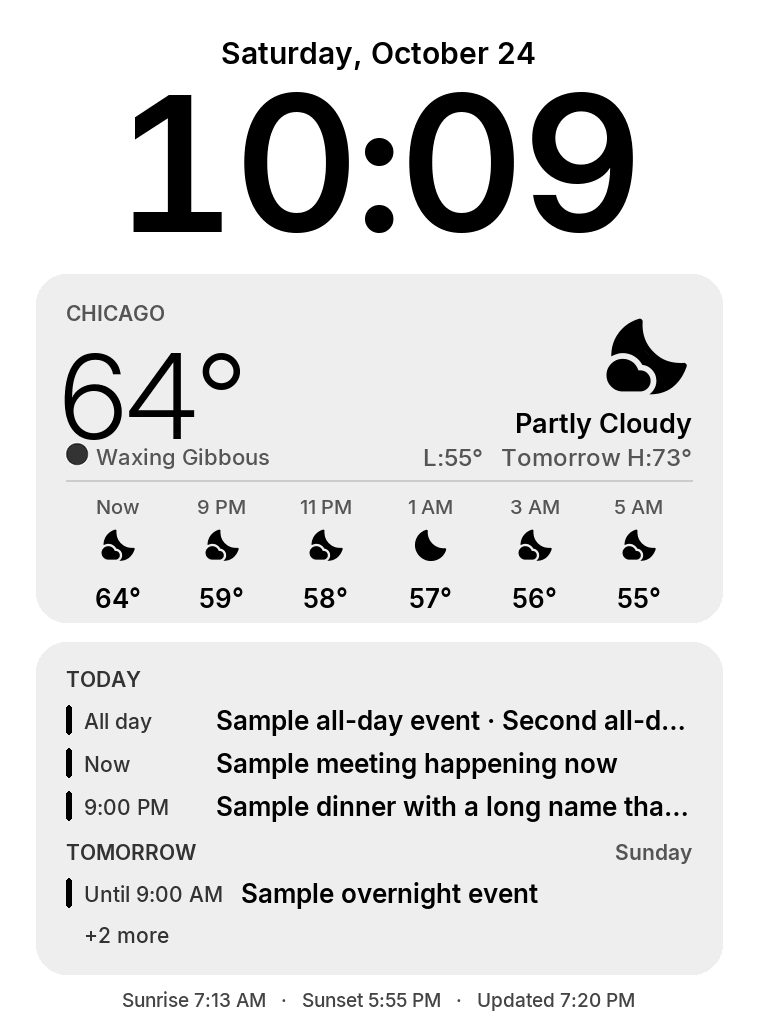
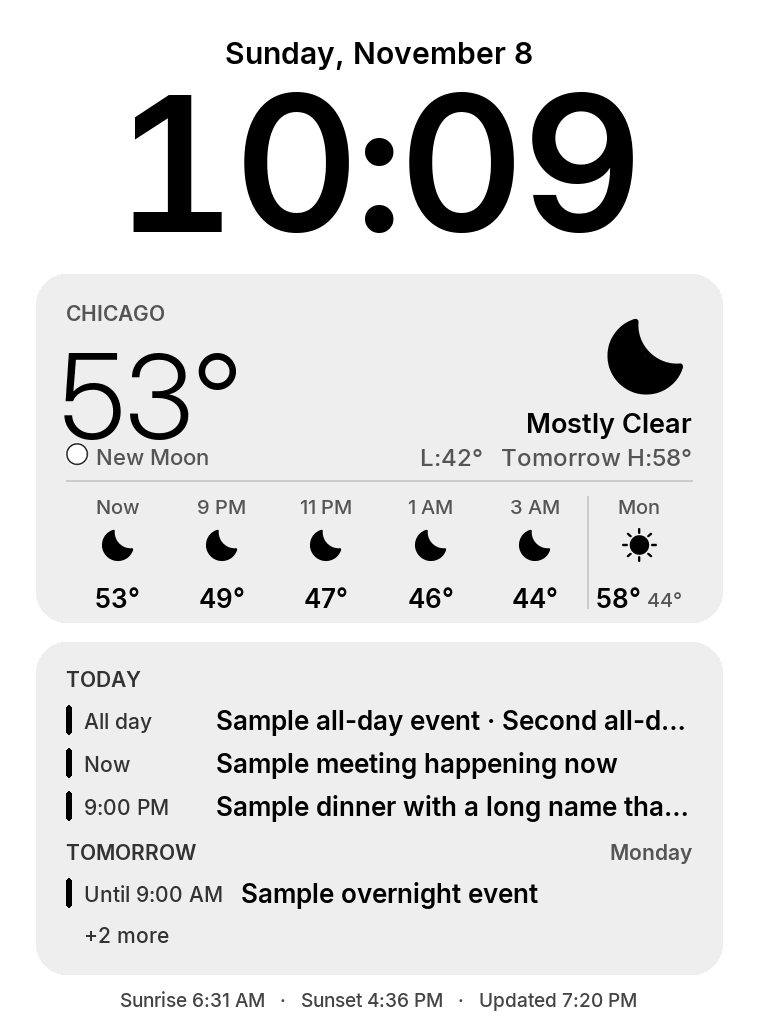
Tomorrow column in the weather strip; Phase 0 hardening
Weather: the last hourly slot now shows tomorrow's daytime forecast
(weekday, icon, rain chance, high/low) from the daily periods.

Workflow: build job back to a read-only token; the deploy job creates
the marker commit through the Git data API (no checkout, official
actions only), deploys under it, cancels a deployment that doesn't
finish, tolerates transient status errors, and then polls the live
meta.bin until its hash matches what was built, so a deploy that
changes nothing fails instead of passing. Hourly run prunes old
deployment records. deploy.js is a committed file. A ruleset keeps
the Actions token off main.

Kindle: power watcher re-arms if lipc-wait-event dies and waits for
the loop before restoring the UI; "stop" file as a second exit; meta
fetched before the image; download size caps; cache written only on
change; log mirrored before rotation; framebuffer stride checked at
startup; preflight failures written to last_error.txt.

Renderer: daily-forecast fields guarded (a malformed period no longer
blanks the card), hourly shortForecast guarded, moon-phase default.
diag.sh: dd probe reports dd's exit code, not tail's.

diff --git a/.github/scripts/deploy.js b/.github/scripts/deploy.js
@@ -1,0 +1,100 @@
+// Deploys the Pages artifact under a fresh marker commit, then checks that Pages is really
+// serving the new render. Run by actions/github-script from render.yml.
+//
+// Why not actions/deploy-pages: it always deploys under GITHUB_SHA, and Pages got stuck on a
+// repeated SHA for 12 hours while every deploy reported success (2026-11-08). The marker commit
+// (main's tree, new message) is created through the Git data API so this job never checks out
+// or runs third-party code with a token that can write to the repo.
+//
+// Env: ARTIFACT_ID, META_SHA256 (sha256 of the meta.bin that was uploaded), DASH_TOKEN.
+
+const crypto = require('crypto')
+
+const TERMINAL_FAILURES = ['deployment_failed', 'deployment_content_failed', 'deployment_attempt_error',
+  'deployment_lost', 'deployment_cancelled']
+const sleep = ms => new Promise(r => setTimeout(r, ms))
+
+module.exports = async ({ github, context, core }) => {
+  const { owner, repo } = context.repo
+  const base = context.sha
+
+  // 1. Marker commit on the deploy-marker branch.
+  const { data: baseCommit } = await github.request('GET /repos/{owner}/{repo}/git/commits/{sha}', { owner, repo, sha: base })
+  const { data: marker } = await github.request('POST /repos/{owner}/{repo}/git/commits', {
+    owner, repo,
+    message: `render ${context.runId}`,
+    tree: baseCommit.tree.sha,
+    parents: [base],
+    author: { name: 'render', email: 'render@users.noreply.github.com', date: new Date().toISOString() },
+  })
+  try {
+    await github.request('PATCH /repos/{owner}/{repo}/git/refs/{ref}', { owner, repo, ref: 'heads/deploy-marker', sha: marker.sha, force: true })
+  } catch (e) {
+    if (e.status !== 422 && e.status !== 404) throw e
+    await github.request('POST /repos/{owner}/{repo}/git/refs', { owner, repo, ref: 'refs/heads/deploy-marker', sha: marker.sha })
+  }
+  core.info(`marker commit ${marker.sha}`)
+
+  // 2. Pages deployment under the marker SHA.
+  const oidc_token = await core.getIDToken()
+  const { data: dep } = await github.request('POST /repos/{owner}/{repo}/pages/deployments', {
+    owner, repo,
+    artifact_id: Number(process.env.ARTIFACT_ID),
+    pages_build_version: marker.sha,
+    oidc_token,
+  })
+  core.info(`deployment ${dep.id} created`)
+
+  // 3. Wait for it, tolerating transient API errors; cancel it if we give up.
+  let status = 'unknown'
+  let errors = 0
+  const deadline = Date.now() + 5 * 60 * 1000
+  try {
+    while (Date.now() < deadline) {
+      await sleep(5000)
+      try {
+        const { data: s } = await github.request('GET /repos/{owner}/{repo}/pages/deployments/{id}', { owner, repo, id: dep.id })
+        status = s.status
+        errors = 0
+      } catch (e) {
+        if (++errors >= 10) throw e
+        core.warning(`status check failed (${errors}/10): ${e.message}`)
+        continue
+      }
+      core.info(`status: ${status}`)
+      if (status === 'succeed') break
+      if (TERMINAL_FAILURES.includes(status)) throw new Error(`Pages deployment ended with status ${status}`)
+    }
+    if (status !== 'succeed') throw new Error(`Pages deployment still "${status}" after 5 minutes`)
+  } catch (e) {
+    if (status !== 'succeed') {
+      await github.request('POST /repos/{owner}/{repo}/pages/deployments/{id}/cancel', { owner, repo, id: dep.id }).catch(() => {})
+    }
+    throw e
+  }
+
+  // 4. Confirm the live site serves what we built. This is the check that was missing when
+  //    Pages silently kept an old render: a green deploy that changes nothing fails here.
+  const url = `https://${owner}.github.io/${repo}/${process.env.DASH_TOKEN}/meta.bin`
+  const want = process.env.META_SHA256
+  const verifyDeadline = Date.now() + 3 * 60 * 1000
+  let got = ''
+  while (Date.now() < verifyDeadline) {
+    try {
+      const res = await fetch(`${url}?v=${context.runId}-${Date.now()}`, { headers: { 'Cache-Control': 'no-cache' } })
+      if (res.ok) {
+        got = crypto.createHash('sha256').update(Buffer.from(await res.arrayBuffer())).digest('hex')
+        if (got === want) {
+          core.info('live site serves the new render')
+          return
+        }
+      } else {
+        core.info(`live fetch: HTTP ${res.status}`)
+      }
+    } catch (e) {
+      core.info(`live fetch failed: ${e.message}`)
+    }
+    await sleep(10000)
+  }
+  core.setFailed(`Pages reported success but still serves an old render (got ${got.slice(0, 12)}…, want ${want.slice(0, 12)}…)`)
+}

diff --git a/render/render.py b/render/render.py
@@ -170,6 +170,15 @@ class Hour:
 
 
 @dataclass
+class Day:
+    label: str           # weekday abbreviation, e.g. "Mon"
+    icon: str
+    high: int | None
+    low: int | None
+    pop: int
+
+
+@dataclass
 class Weather:
     temp: int
     condition: str
@@ -178,6 +187,7 @@ class Weather:
     low: int | None
     night: bool          # first daily period is a night: show its low first, then the next day's high
     hours: list[Hour]
+    tomorrow: Day | None = None
 
 
 def fetch_weather(now: datetime) -> Weather:
@@ -196,12 +206,12 @@ def fetch_weather(now: datetime) -> Weather:
         if end <= now or p.get("temperature") is None:
             continue
         mid = at + (end - at) / 2
-        hours.append(Hour(at, p["temperature"], icon_for(p["shortForecast"], is_day(mid)),
+        hours.append(Hour(at, p["temperature"], icon_for(p.get("shortForecast") or "", is_day(mid)),
                           (p.get("probabilityOfPrecipitation") or {}).get("value") or 0))
     if not hours:
         raise ValueError("hourly forecast has no current periods")
     current = next(p for p in hourly if datetime.fromisoformat(p["endTime"]) > now)
-    temp, condition = hours[0].temp, current["shortForecast"]
+    temp, condition = hours[0].temp, current.get("shortForecast") or "Cloudy"
 
     # Prefer the live observation from the nearest station when it's fresh.
     try:
@@ -214,10 +224,24 @@ def fetch_weather(now: datetime) -> Weather:
     except (requests.RequestException, KeyError, TypeError, ValueError):
         pass
 
-    night = bool(daily) and not daily[0]["isDaytime"]
-    high = next((p["temperature"] for p in daily if p["isDaytime"]), None)
-    low = next((p["temperature"] for p in daily if not p["isDaytime"]), None)
-    return Weather(temp, condition, icon_for(condition, is_day(now)), high, low, night, hours)
+    # Daily periods are optional extras; a malformed one must not take the card down.
+    night, high, low, tomorrow = False, None, None, None
+    try:
+        days = [p for p in daily if p.get("isDaytime", True)]
+        nights = [p for p in daily if not p.get("isDaytime", True)]
+        night = bool(daily) and not daily[0].get("isDaytime", True)
+        high = days[0].get("temperature") if days else None
+        low = nights[0].get("temperature") if nights else None
+        tm = now.date() + timedelta(days=1)
+        day_p = next((p for p in days if datetime.fromisoformat(p["startTime"]).astimezone(TZ).date() == tm), None)
+        if day_p:
+            night_p = next((p for p in nights if datetime.fromisoformat(p["startTime"]).astimezone(TZ).date() == tm), None)
+            tomorrow = Day(tm.strftime("%a"), icon_for(day_p.get("shortForecast") or "", True),
+                           day_p.get("temperature"), night_p.get("temperature") if night_p else None,
+                           (day_p.get("probabilityOfPrecipitation") or {}).get("value") or 0)
+    except (KeyError, TypeError, ValueError) as e:
+        print(f"daily forecast unusable: {type(e).__name__}", file=sys.stderr)
+    return Weather(temp, condition, icon_for(condition, is_day(now)), high, low, night, hours, tomorrow)
 
 
 @dataclass
@@ -369,7 +393,7 @@ MOON_NAMES = ((1, "New Moon"), (6, "Waxing Crescent"), (8, "First Quarter"), (13
 def moon_phase(day: date) -> tuple[float, str]:
     """Returns (fraction of the lunation 0..1, name). astral's phase runs 0..28 (0 new, 14 full)."""
     days = moon.phase(day)
-    name = next(n for limit, n in MOON_NAMES if days < limit)
+    name = next((n for limit, n in MOON_NAMES if days < limit), "New Moon")
     return days / 28, name
 
 
@@ -434,9 +458,11 @@ def draw_weather(img, d, wx: Weather | None, now: datetime, top: int, bottom: in
 
     # Every two hours of elapsed time, not by clock hour, so the DST fall-back night has no repeats.
     first = wx.hours[0].at
+    hourly_slots = 5 if wx.tomorrow else 6
     picks = [wx.hours[0]] + [h for h in wx.hours[1:]
-                             if round((h.at.timestamp() - first.timestamp()) / 3600) % 2 == 0][:5]
-    col = (R - L) / len(picks)
+                             if round((h.at.timestamp() - first.timestamp()) / 3600) % 2 == 0][:hourly_slots - 1]
+    slots = len(picks) + (1 if wx.tomorrow else 0)
+    col = (R - L) / slots
     for i, h in enumerate(picks):
         cx = int(L + col * i + col / 2)
         label, icon, temp = ("Now", wx.icon, wx.temp) if i == 0 else (fmt_hour(h.at), h.icon, h.temp)
@@ -445,6 +471,23 @@ def draw_weather(img, d, wx: Weather | None, now: datetime, top: int, bottom: in
         if h.pop >= 10:
             d.text((cx, line_y + 82), f"{h.pop}%", font=F["pop"], fill=WX_MUTED, anchor="ma")
         d.text((cx, line_y + 102), f"{temp}°", font=F["hour_t"], fill=INK, anchor="ma")
+
+    if wx.tomorrow:   # last slot: tomorrow's daytime forecast, high over low
+        t = wx.tomorrow
+        cx = int(L + col * (slots - 1) + col / 2)
+        d.line((cx - col // 2, line_y + 16, cx - col // 2, line_y + 128), fill=HAIRLINE, width=2)
+        d.text((cx, line_y + 14), t.label, font=F["hour"], fill=WX_MUTED, anchor="ma")
+        draw_icon(d, t.icon, cx, line_y + 42, 38, anchor="ma")
+        if t.pop >= 10:
+            d.text((cx, line_y + 82), f"{t.pop}%", font=F["pop"], fill=WX_MUTED, anchor="ma")
+        hi = f"{t.high}°" if t.high is not None else "–"
+        lo = f"{t.low}°" if t.low is not None else ""
+        hi_w = text_w(d, hi, F["hour_t"])
+        lo_w = text_w(d, lo, F["hour"]) if lo else 0
+        x = cx - (hi_w + (lo_w + 6 if lo else 0)) // 2
+        d.text((x, line_y + 102), hi, font=F["hour_t"], fill=INK)
+        if lo:
+            d.text((x + hi_w + 6, line_y + 107), lo, font=F["hour"], fill=WX_MUTED)
 
 
 def day_rows(day_events: list[Event], now: datetime, today: bool) -> list[tuple[str, str]]:

diff --git a/README.md b/README.md
@@ -1,8 +1,8 @@
 # kindle-dashboard
 
-An Apple-style wall dashboard for a jailbroken Kindle Paperwhite (5th gen, firmware 5.6.1.1):
-a big clock, local weather and moon phase from the National Weather Service and astral, and today's/tomorrow's
-events from Google Calendar.
+An Apple-style wall dashboard for jailbroken Kindle Paperwhites (running on a 5th gen at firmware 5.6.1.1 and a
+6th gen at 5.6.5): a big clock, local weather and moon phase from the National Weather Service and astral, and
+today's/tomorrow's events from Google Calendar.
 
 ![preview](docs/preview.png)
 
@@ -19,7 +19,10 @@ events from Google Calendar.
   screensaver, and loops: clock every minute, fetch every 5 minutes, full refresh hourly. It decrypts and
   size-checks every download before using it, keeps the last good image for the next start, corrects the device
   clock from the server's `Date` header, and shows a footer banner when data is stale (45 min), the battery is low,
-  or nothing has arrived yet. **Press the power button to exit** back to the normal Kindle UI.
+  or nothing has arrived yet. **Press the power button to exit** back to the normal Kindle UI; if that ever fails,
+  create a file named `stop` in the extension folder (checked once a minute). A refused start writes the reason to
+  `last_error.txt` in the extension folder. Both Kindles have the same 758×1024, 768-byte-stride panel; the script
+  checks the stride at startup and refuses to draw on anything else.
 
 ## Secrets (Settings → Secrets and variables → Actions)
 
@@ -41,6 +44,7 @@ time. `python render/render.py out --sample` renders a preview with a public sta
 1. `python render/make_clock.py` (writes `kindle/extensions/dashboard/clock/` and `banner/`).
 2. Copy `fbink` from a KOReader `koreader-kindle-*.zip` release (`koreader/fbink`) into
    `kindle/extensions/dashboard/bin/`. That build has no image support; the dashboard only uses it to refresh.
+   (The `fbink` that newer jailbreaks install under `/mnt/us/libkh/bin` does not run on its own; use KOReader's.)
 3. Put the base URL (`https://<user>.github.io/<repo>/<DASH_TOKEN>`) in `kindle/extensions/dashboard/url.txt`
    and the `DASH_KEY` value in `kindle/extensions/dashboard/key.txt`.
 4. Copy `kindle/extensions/dashboard` to `/mnt/us/extensions/` and launch it from KUAL, or copy
@@ -59,10 +63,17 @@ protects the content.
   headers `Accept: application/vnd.github+json`, `X-GitHub-Api-Version: 2022-11-28` and
   `Authorization: Bearer <fine-grained token>` (this repo only, Actions: read and write). GitHub answers 204.
   The workflow's own hourly schedule is a fallback. The Kindle shows the stale banner after 45 minutes without a new render.
-- Each run deploys under its own marker commit (main's tree, force-pushed to the `deploy-marker` branch) and
-  calls the Pages deployment API directly. Deploying the same SHA every run (what `actions/deploy-pages`
-  does) left Pages serving a 12-hour-old render while every deploy reported success (2026-11-08); a new
-  SHA cleared it immediately. `deploy-marker` is never meant to be checked out.
+- `.github/scripts/deploy.js` (run by the deploy job) creates a marker commit on the `deploy-marker` branch
+  through the Git data API (main's tree, new message), deploys the artifact under that SHA, cancels the
+  deployment if it doesn't finish, and then **fetches the live `meta.bin` until it matches what was built**.
+  Deploying the same SHA every run (what `actions/deploy-pages` does) left Pages serving a 12-hour-old render
+  while every deploy reported success (2026-11-08); a new SHA cleared it immediately, and the verify step turns
+  a repeat into a failed run. `deploy-marker` is never meant to be checked out.
+- The build job (the one that runs pip packages) has a read-only token. Only the deploy job, which runs official
+  actions only, can write to the repo, and a ruleset on `main` ("protect-main", bypass: repository admins) keeps
+  even that token off the main branch.
+- The hourly scheduled run also deletes deployment records beyond the newest 30; unreachable marker commits are
+  left for GitHub's garbage collection.
 - Public repos get scheduled workflows disabled after 60 days without commits. The `keepalive` job re-enables the
   workflow on every scheduled run; if GitHub disables it anyway, re-enable it from the Actions tab.
 - To rotate the key or path: set the new secret(s), run the workflow, then update `key.txt` / `url.txt` on the Kindle.
